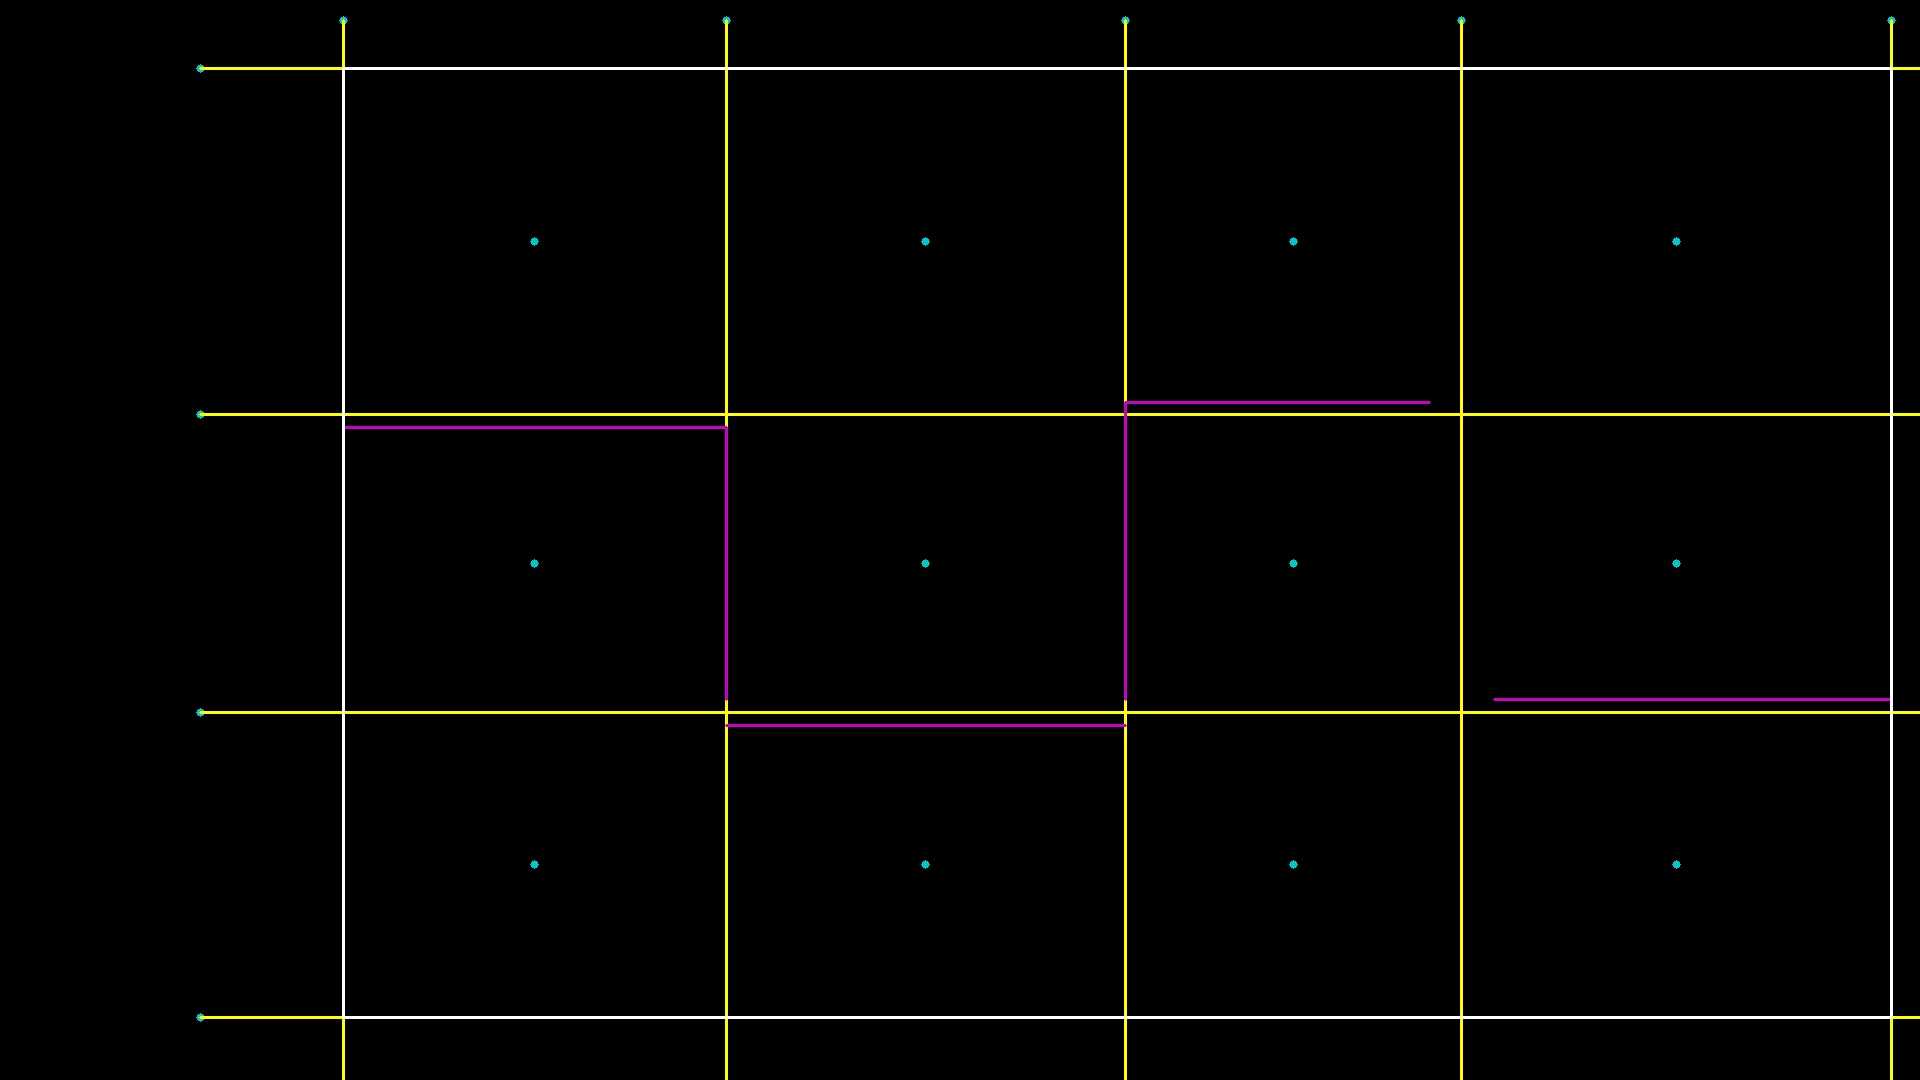
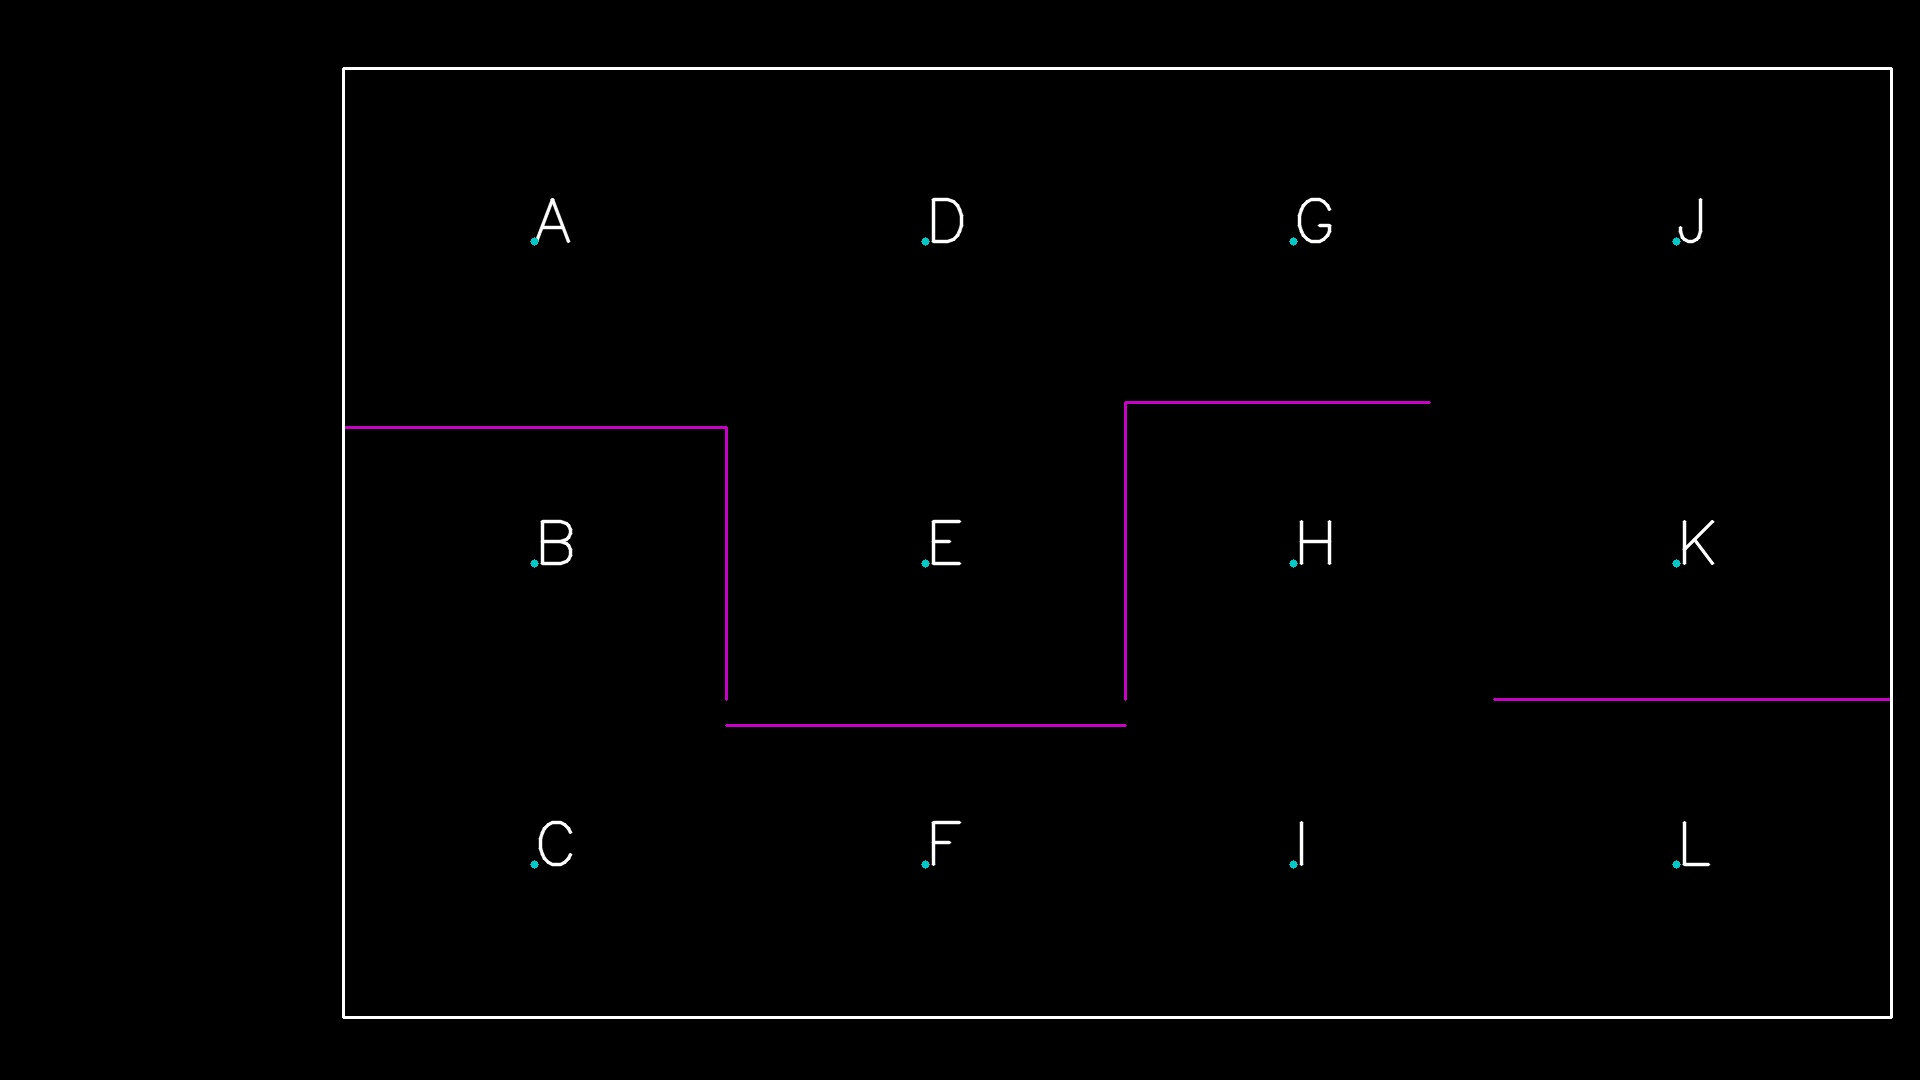
12.07.18 ended

diff --git a/temp_v/test6.py b/temp_v/test6.py
@@ -483,26 +483,39 @@ for i in range(len(x_s)-1):
 		mid_points.append((x, y))
 
 class Node:
-	def __init__(self, x, y, n, o, s, w):
+	def __init__(self, x, y, available_next):
 		self.x = x
 		self.y = y
-		self.n = n
-		self.o = o
-		self.s = s
-		self.w = w
+		self.avail = available_next
 
 
+print(len(mid_points))
 for pt in mid_points:
 	pass # check all sides and create Nodes
 
-
+#########################################################
+# TODO ###### TODO #### TODO ### TODO ### TODO ### TODO #
+#########################################################
+# TODO ###### TODO #### TODO ### TODO ### TODO ### TODO #
+#########################################################
+# TODO ###### TODO #### TODO ### TODO ### TODO ### TODO #
+#########################################################
+# TODO ###### TODO #### TODO ### TODO ### TODO ### TODO #
+#########################################################
+# TODO ###### TODO #### TODO ### TODO ### TODO ### TODO #
+#########################################################
 
 # draw
 l = np.zeros(img.shape, dtype=np.uint8)
 
+itr = 0
+font = cv2.FONT_HERSHEY_SIMPLEX
 for pt in mid_points:
+	let = str(chr(itr+65))
+	cv2.putText(l,let,pt, font, 2,(255,255,255),2,cv2.LINE_AA)
 	cv2.circle(l, pt, 4, (200, 200, 0), thickness=-1)
-
+	itr += 1
+"""
 for y in y_s:
 	cv2.circle(l, (200, y), 4, (200, 200, 0), thickness=-1)
 	cv2.line(l, (200, y), (2000, y), (0, 255, 255), 2)
@@ -510,7 +523,7 @@ for y in y_s:
 for x in x_s:
 	cv2.circle(l, (x, 20), 4, (200, 200, 0), thickness=-1)
 	cv2.line(l, (x, 20), (x, 2000), (0, 255, 255), 2)
-
+"""
 for i in final_lines_y:
 	x1, y1, x2, y2 = i
 	cv2.line(l, (x1,y1), (x2,y2), (200, 0, 200), 2)
